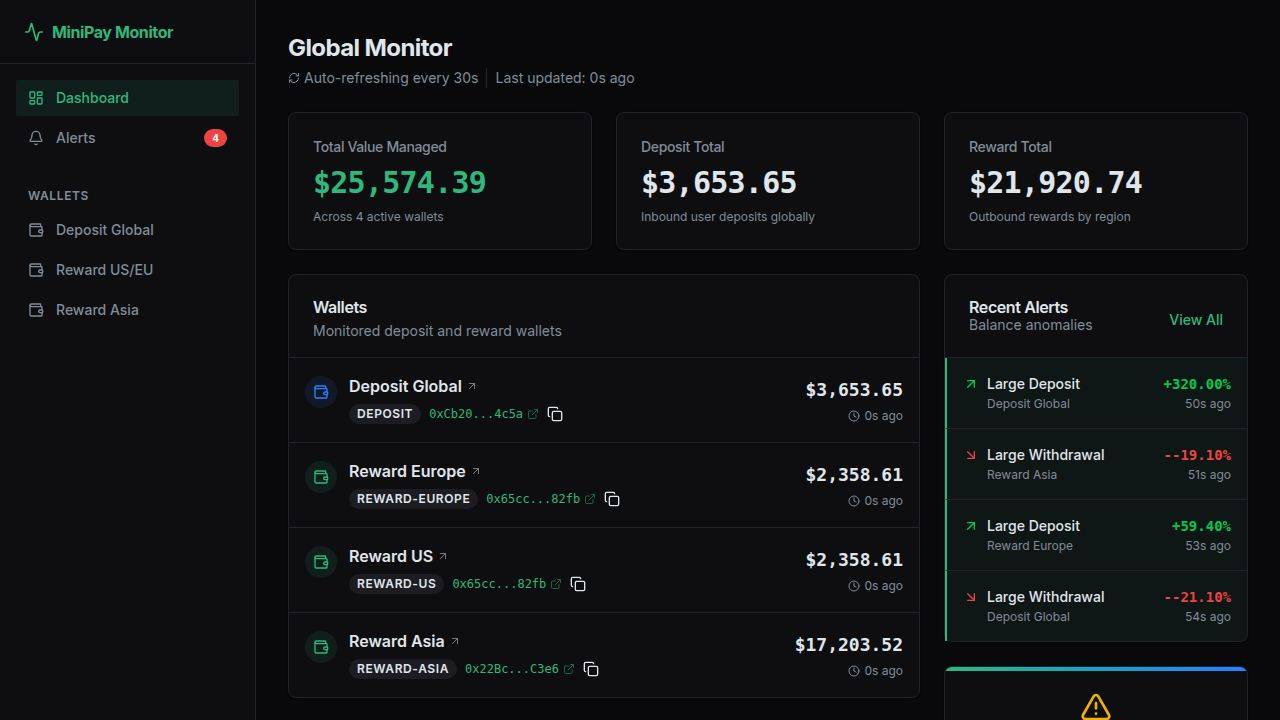
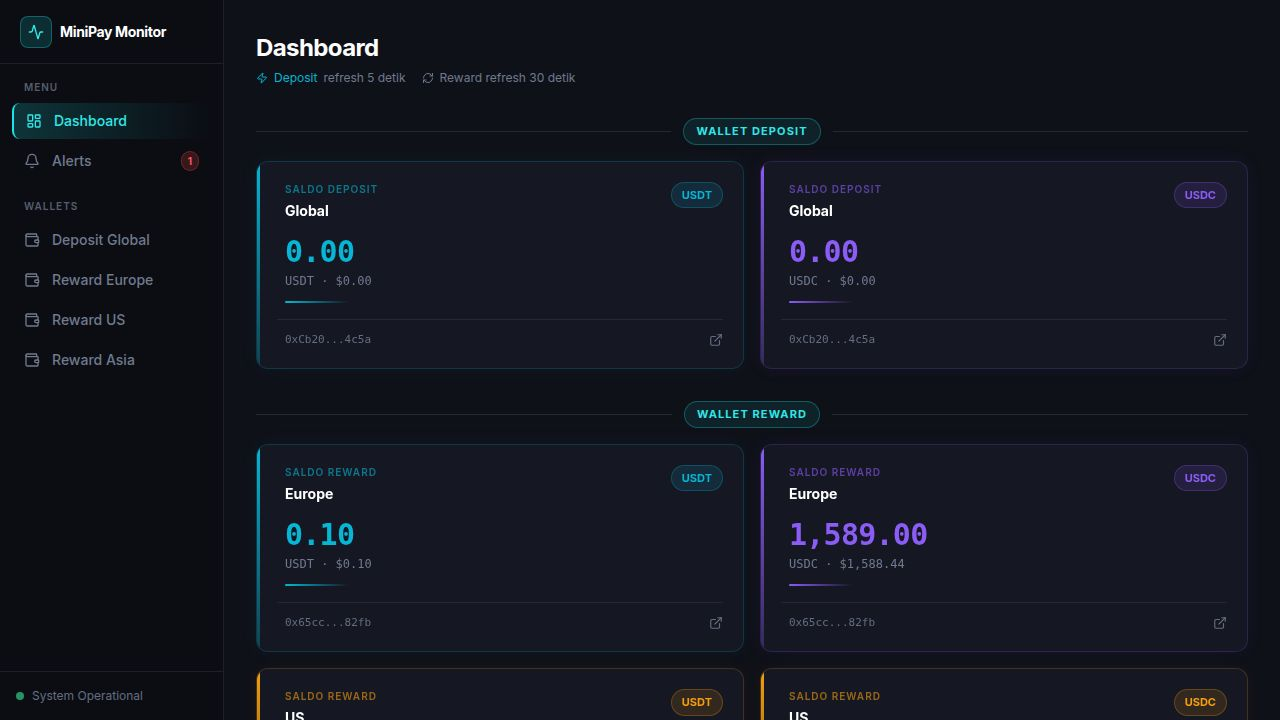
Update dashboard to refresh deposit wallet balances every 5 seconds
Add a new API endpoint `/api/wallets/deposit` with a 4-second server-side cache for deposit wallet balances, and update the dashboard to fetch and display this data every 5 seconds. Reward wallet refresh remains at 30 seconds.

Replit-Commit-Author: Agent
Replit-Commit-Session-Id: 2ebdabe1-726e-43d9-8688-58503b759568
Replit-Commit-Checkpoint-Type: full_checkpoint
Replit-Commit-Event-Id: 353eed70-5412-4c78-bfac-9f0946587d62
Replit-Commit-Screenshot-Url: https://storage.googleapis.com/screenshot-production-us-central1/2f9c556c-d6e5-46af-bcc9-29a399c646bd/2ebdabe1-726e-43d9-8688-58503b759568/0w76eTV
Replit-Helium-Checkpoint-Created: true

diff --git a/artifacts/minipay-monitor/src/pages/dashboard.tsx b/artifacts/minipay-monitor/src/pages/dashboard.tsx
@@ -1,6 +1,11 @@
-import { useGetWallets, getGetWalletsQueryKey } from "@workspace/api-client-react";
+import {
+  useGetWallets,
+  getGetWalletsQueryKey,
+  useGetDepositWallet,
+  getGetDepositWalletQueryKey,
+} from "@workspace/api-client-react";
 import { Skeleton } from "@/components/ui/skeleton";
-import { RefreshCw, ExternalLink } from "lucide-react";
+import { RefreshCw, ExternalLink, Zap } from "lucide-react";
 
 const DEPOSIT_ADDR = "0xCb205D7ca9840393f43941dDEAc6a7bF8deD4c5a";
 const REWARD_EU_ADDR = "0x65cc602e616ca786bdb4bab00a6272060f0082fb";
@@ -148,19 +153,33 @@ function WalletCard({
 }
 
 export default function Dashboard() {
-  const { data: wallets, isLoading, dataUpdatedAt } = useGetWallets({
+  // Fast refresh for deposit wallet (every 5s)
+  const { data: depositWallet, isLoading: depositLoading, dataUpdatedAt: depositUpdatedAt } = useGetDepositWallet({
+    query: {
+      queryKey: getGetDepositWalletQueryKey(),
+      refetchInterval: 5000,
+    },
+  });
+
+  // Normal refresh for reward wallets (every 30s)
+  const { data: allWallets, isLoading: walletsLoading } = useGetWallets({
     query: {
       queryKey: getGetWalletsQueryKey(),
       refetchInterval: 30000,
     },
   });
 
-  const lastUpdated = dataUpdatedAt
-    ? new Date(dataUpdatedAt).toLocaleTimeString("id-ID", { hour: "2-digit", minute: "2-digit", second: "2-digit" })
+  const depositLastUpdated = depositUpdatedAt
+    ? new Date(depositUpdatedAt).toLocaleTimeString("id-ID", { hour: "2-digit", minute: "2-digit", second: "2-digit" })
     : null;
 
-  function getTokenData(address: string, symbol: string) {
-    const wallet = wallets?.find((w) => w.address.toLowerCase() === address.toLowerCase());
+  function getDepositTokenData(symbol: string) {
+    const token = depositWallet?.tokens?.find((t) => t.symbol === symbol);
+    return { balance: token?.balance, usdValue: token?.usdValue };
+  }
+
+  function getRewardTokenData(address: string, symbol: string) {
+    const wallet = allWallets?.find((w) => w.address.toLowerCase() === address.toLowerCase());
     const token = wallet?.tokens?.find((t) => t.symbol === symbol);
     return { balance: token?.balance, usdValue: token?.usdValue };
   }
@@ -170,48 +189,59 @@ export default function Dashboard() {
       {/* header */}
       <div>
         <h1 className="text-2xl font-bold tracking-tight text-white">Dashboard</h1>
-        <p className="text-xs mt-1.5 flex items-center gap-1.5" style={{ color: "hsl(220 12% 50%)" }}>
-          <RefreshCw className="h-3 w-3" />
-          Auto-refresh setiap 30 detik
-          {lastUpdated && <span className="opacity-60">· {lastUpdated}</span>}
-        </p>
+        <div className="flex flex-wrap items-center gap-x-4 gap-y-1 mt-1.5">
+          <p className="text-xs flex items-center gap-1.5" style={{ color: "hsl(220 12% 50%)" }}>
+            <Zap className="h-3 w-3" style={{ color: "#06b6d4" }} />
+            <span style={{ color: "#06b6d4" }}>Deposit</span> refresh 5 detik
+            {depositLastUpdated && <span className="opacity-60">· {depositLastUpdated}</span>}
+          </p>
+          <p className="text-xs flex items-center gap-1.5" style={{ color: "hsl(220 12% 50%)" }}>
+            <RefreshCw className="h-3 w-3" />
+            Reward refresh 30 detik
+          </p>
+        </div>
       </div>
 
-      {SECTIONS.map((section) => (
-        <div key={section.title} className="space-y-4">
-          {/* section label */}
-          <div className="flex items-center gap-3">
-            <div className="flex-1 h-px" style={{ background: "hsl(230 20% 18%)" }} />
-            <span
-              className="text-[11px] font-bold tracking-widest px-3 py-1 rounded-full border"
-              style={{
-                color: "hsl(180 80% 55%)",
-                borderColor: "hsl(180 80% 50% / 0.3)",
-                background: "hsl(180 80% 50% / 0.08)",
-              }}
-            >
-              {section.title}
-            </span>
-            <div className="flex-1 h-px" style={{ background: "hsl(230 20% 18%)" }} />
-          </div>
+      {SECTIONS.map((section) => {
+        const isDeposit = section.title === "WALLET DEPOSIT";
+        return (
+          <div key={section.title} className="space-y-4">
+            {/* section label */}
+            <div className="flex items-center gap-3">
+              <div className="flex-1 h-px" style={{ background: "hsl(230 20% 18%)" }} />
+              <span
+                className="text-[11px] font-bold tracking-widest px-3 py-1 rounded-full border"
+                style={{
+                  color: "hsl(180 80% 55%)",
+                  borderColor: "hsl(180 80% 50% / 0.3)",
+                  background: "hsl(180 80% 50% / 0.08)",
+                }}
+              >
+                {section.title}
+              </span>
+              <div className="flex-1 h-px" style={{ background: "hsl(230 20% 18%)" }} />
+            </div>
 
-          {/* cards grid */}
-          <div className="grid grid-cols-1 sm:grid-cols-2 gap-4">
-            {section.cards.map((card) => {
-              const { balance, usdValue } = getTokenData(card.address, card.token);
-              return (
-                <WalletCard
-                  key={card.id}
-                  card={card}
-                  balance={balance}
-                  usdValue={usdValue}
-                  isLoading={isLoading}
-                />
-              );
-            })}
+            {/* cards grid */}
+            <div className="grid grid-cols-1 sm:grid-cols-2 gap-4">
+              {section.cards.map((card) => {
+                const { balance, usdValue } = isDeposit
+                  ? getDepositTokenData(card.token)
+                  : getRewardTokenData(card.address, card.token);
+                return (
+                  <WalletCard
+                    key={card.id}
+                    card={card}
+                    balance={balance}
+                    usdValue={usdValue}
+                    isLoading={isDeposit ? depositLoading : walletsLoading}
+                  />
+                );
+              })}
+            </div>
           </div>
-        </div>
-      ))}
+        );
+      })}
     </div>
   );
 }

diff --git a/artifacts/api-server/src/routes/wallets.ts b/artifacts/api-server/src/routes/wallets.ts
@@ -14,8 +14,13 @@ const MONITORED_WALLETS = [
   },
   {
     address: "0x65cc602e616ca786bdb4bab00a6272060f0082fb",
-    label: "Reward Europe / US",
+    label: "Reward Europe",
     group: "reward-europe",
+  },
+  {
+    address: "0x74667d9eDD871150cE38EBC26355758ba31F44B5",
+    label: "Reward US",
+    group: "reward-us",
   },
   {
     address: "0x22Bc6F7f356F69EE8103475Aa1A864a0D77fC3e6",
@@ -23,6 +28,12 @@ const MONITORED_WALLETS = [
     group: "reward-asia",
   },
 ];
+
+const DEPOSIT_ADDRESS = "0xCb205D7ca9840393f43941dDEAc6a7bF8deD4c5a";
+
+// Fast cache for deposit wallet — max age 4 seconds
+let depositCache: { data: object; ts: number } | null = null;
+const DEPOSIT_CACHE_TTL = 4_000;
 
 const TOKEN_CONTRACTS: Record<string, { symbol: string; name: string; decimals: number; logoUrl: string | null }> = {
   "0xceba9300f2b948710d2653dd7b07f33a8b32118c": {
@@ -220,6 +231,32 @@ router.get("/wallets", async (req, res) => {
   } catch (err) {
     req.log.error({ err }, "Failed to get wallets");
     res.status(500).json({ error: "Failed to fetch wallet data" });
+  }
+});
+
+// GET /api/wallets/deposit  — fast-refresh endpoint with 4s server-side cache
+router.get("/wallets/deposit", async (req, res) => {
+  try {
+    const now = Date.now();
+    if (depositCache && now - depositCache.ts < DEPOSIT_CACHE_TTL) {
+      res.json(depositCache.data);
+      return;
+    }
+    const tokens = await getWalletTokenBalances(DEPOSIT_ADDRESS);
+    const totalUsdValue = tokens.reduce((acc, t) => acc + t.usdValue, 0);
+    const result = {
+      address: DEPOSIT_ADDRESS,
+      label: "Deposit Global",
+      group: "deposit",
+      totalUsdValue,
+      tokens,
+      lastUpdated: new Date().toISOString(),
+    };
+    depositCache = { data: result, ts: now };
+    res.json(result);
+  } catch (err) {
+    req.log.error({ err }, "Failed to get deposit wallet");
+    res.status(500).json({ error: "Failed to fetch deposit wallet data" });
   }
 });
 